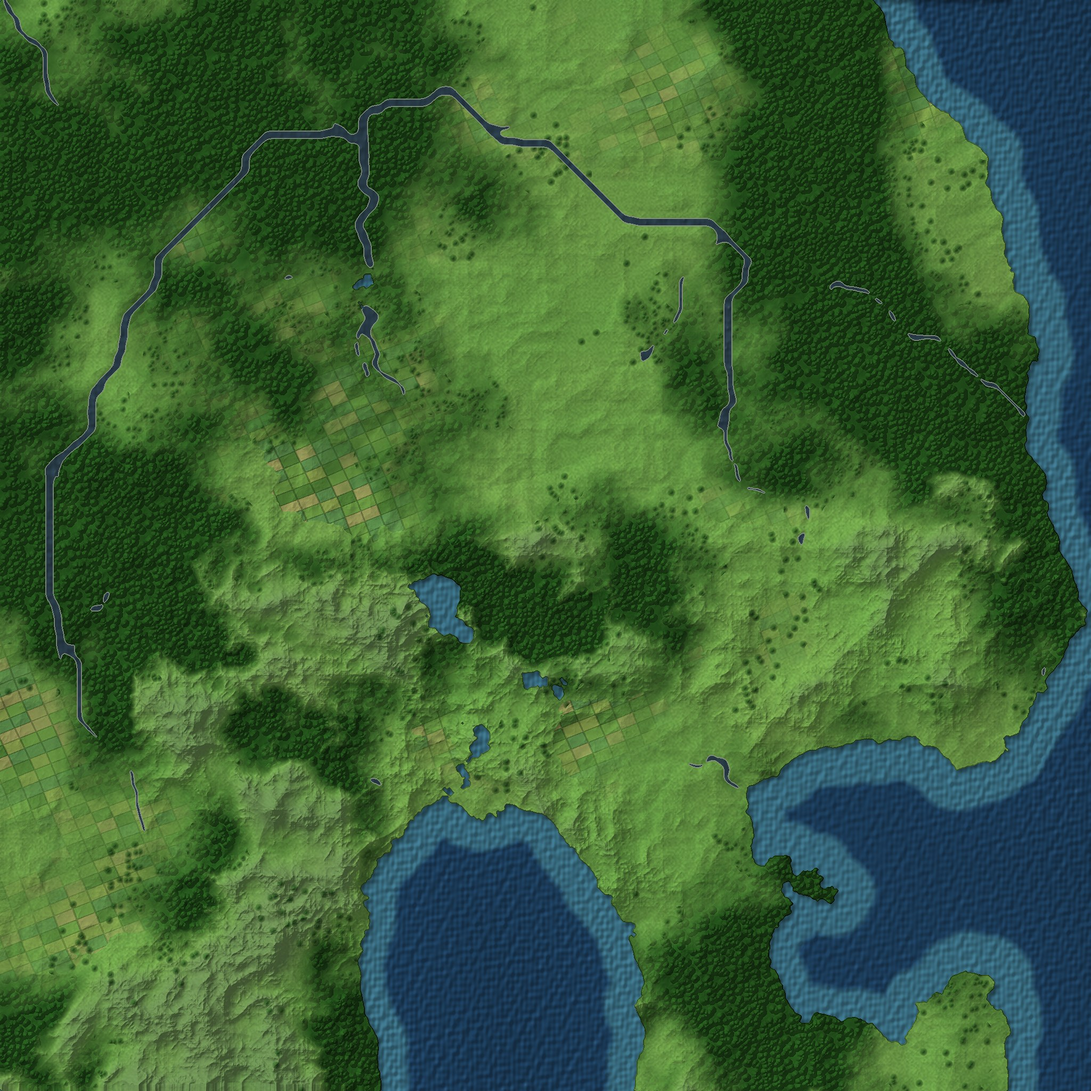
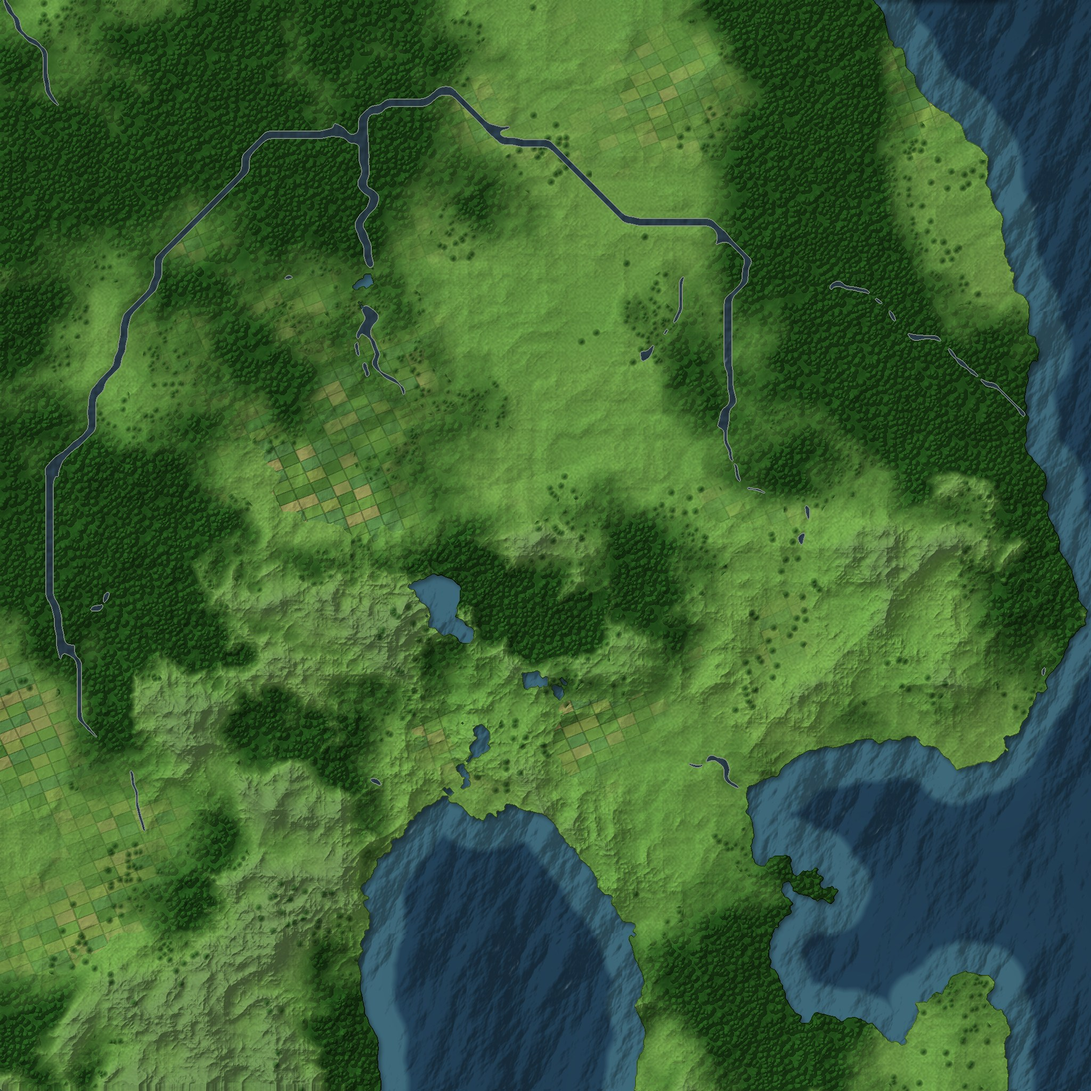
Map: sea painted from simulated waves, two rotated tile scales so it never visibly repeats
Claude-Session: https://claude.ai/code/session_014nGi4eSs3FWdL2Rsq4Dqkd

diff --git a/ci/map/bake.py b/ci/map/bake.py
@@ -211,17 +211,30 @@ if os.path.exists(tile_path):
     # real simulated waves: tile the seamless ocean normals over the whole sea
     nt_img = np.asarray(Image.open(tile_path)).astype(np.float32)
     nt_img = nt_img / (65535.0 if nt_img.max() > 255 else 255.0)
-    tile = int(os.environ.get('OCEAN_TILE_PX', str(S // 4)))
+    tile = int(os.environ.get('OCEAN_TILE_PX', str(S // 7)))
     nt_img = np.asarray(Image.fromarray((nt_img[..., :3] * 255).astype(np.uint8)).resize((tile, tile), Image.LANCZOS)).astype(np.float32) / 255
-    reps = S // tile + 1
-    big = np.tile(nt_img, (reps, reps, 1))[:S, :S]
+    def tiled(t, ang_deg, off):
+        im = Image.fromarray((nt_img * 255).astype(np.uint8)).resize((t, t), Image.LANCZOS)
+        a2 = np.asarray(im).astype(np.float32) / 255
+        yy3, xx3 = np.mgrid[0:S, 0:S].astype(np.float32)
+        c, s_ = np.cos(np.radians(ang_deg)), np.sin(np.radians(ang_deg))
+        u = ((xx3 * c - yy3 * s_ + off) % t).astype(int); v = ((xx3 * s_ + yy3 * c + off) % t).astype(int)
+        out = a2[v, u]
+        # rotate the normal vectors by the same angle so lighting stays consistent
+        nx_, ny_ = out[..., 0] * 2 - 1, out[..., 1] * 2 - 1
+        rx, ry = nx_ * c + ny_ * s_, -nx_ * s_ + ny_ * c
+        out[..., 0] = (rx + 1) / 2; out[..., 1] = (ry + 1) / 2
+        return out
+    A = tiled(tile, 0, 0); B = tiled(int(tile * 1.37), 17, 311)
+    mask = np.clip((fbm(3, 5) - 0.5) * 3 + 0.5, 0, 1)[..., None]
+    big = A * mask + B * (1 - mask)
     nx, ny, nzz = big[..., 0] * 2 - 1, big[..., 1] * 2 - 1, big[..., 2] * 2 - 1
-    gx, gy = -nx * 6, ny * 6                                           # slopes, in the units the shading below expects
+    gx, gy = -nx * 16, ny * 16                                           # slopes, in the units the shading below expects
     nz = np.clip(nzz, 0.05, 1)
-    glint = np.clip(-nx * 0.6 + ny * 0.6 + 0.0, 0, 1) ** 8 * (fbm(10, 4) > 0.35)
+    glint = np.clip((-nx + ny) * 2.2, 0, 1) ** 4 * (fbm(10, 4) > 0.35)
 band_w = S * (0.012 + 0.03 * fbm(5, 5))
 band = np.clip(1 - (dist_land - band_w) / (S * 0.006), 0, 1)        # shallow coastal water, width varies
-deep = np.array([0.11, 0.24, 0.36]); shal = np.array([0.22, 0.42, 0.50])
+deep = np.array([0.12, 0.23, 0.31]); shal = np.array([0.21, 0.36, 0.42])
 depth_dark = np.clip(dist_land / (S * 0.25), 0, 1)[..., None] * 0.18
 wcol = deep * (1 - band[..., None]) + shal * band[..., None]
 lam = np.clip(0.5 + (-gx - gy) * 0.35, 0, 1)[..., None]               # each ripple lit on one side
